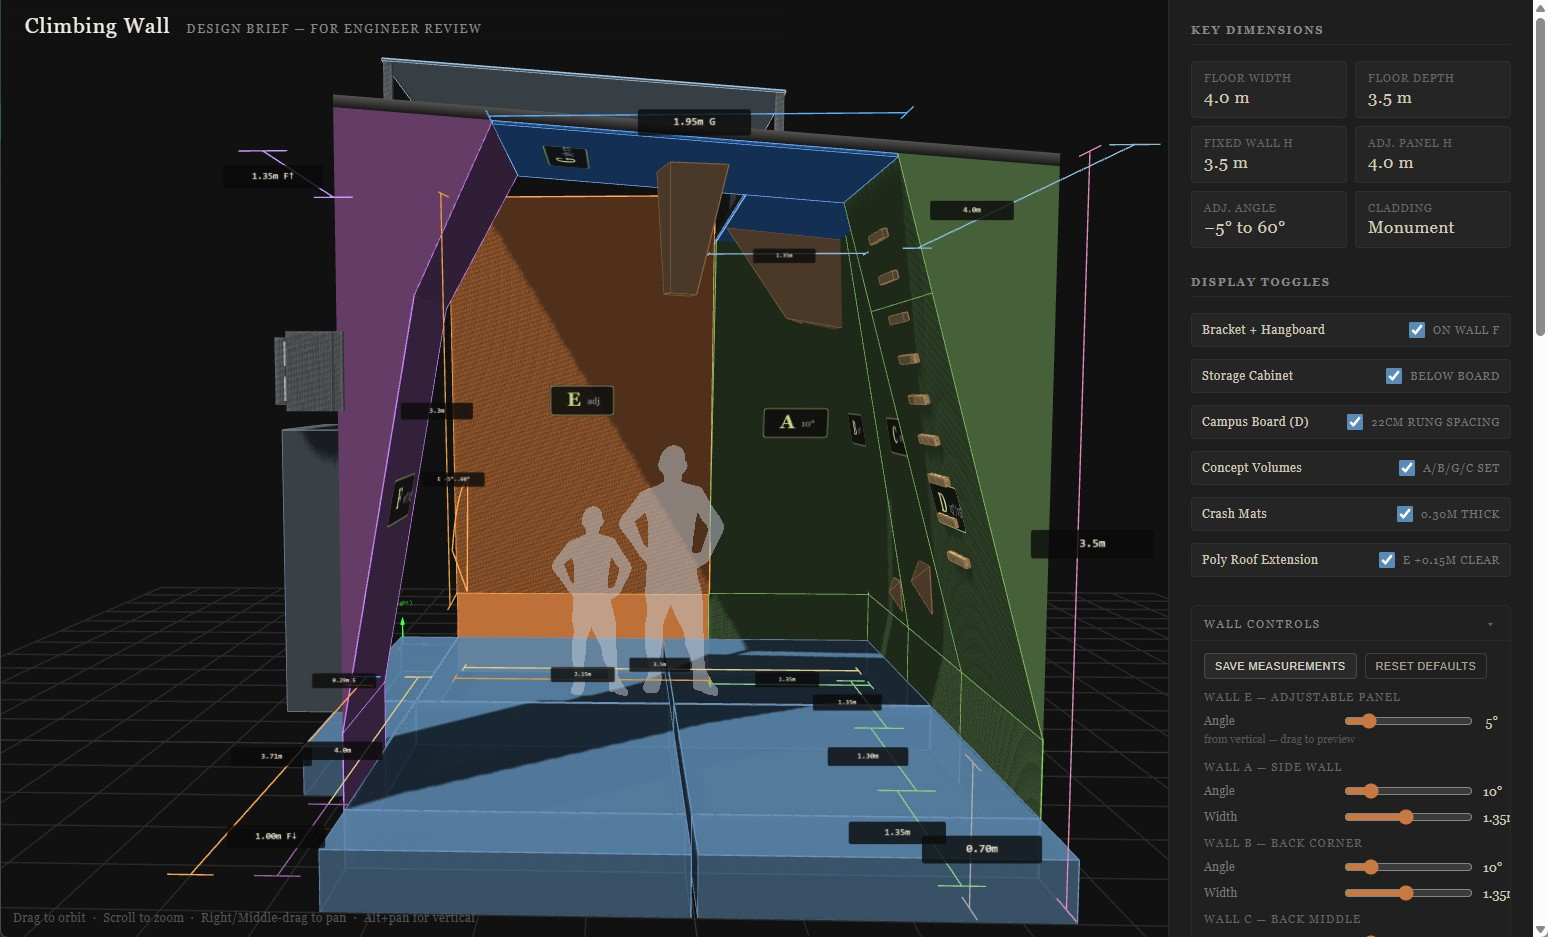
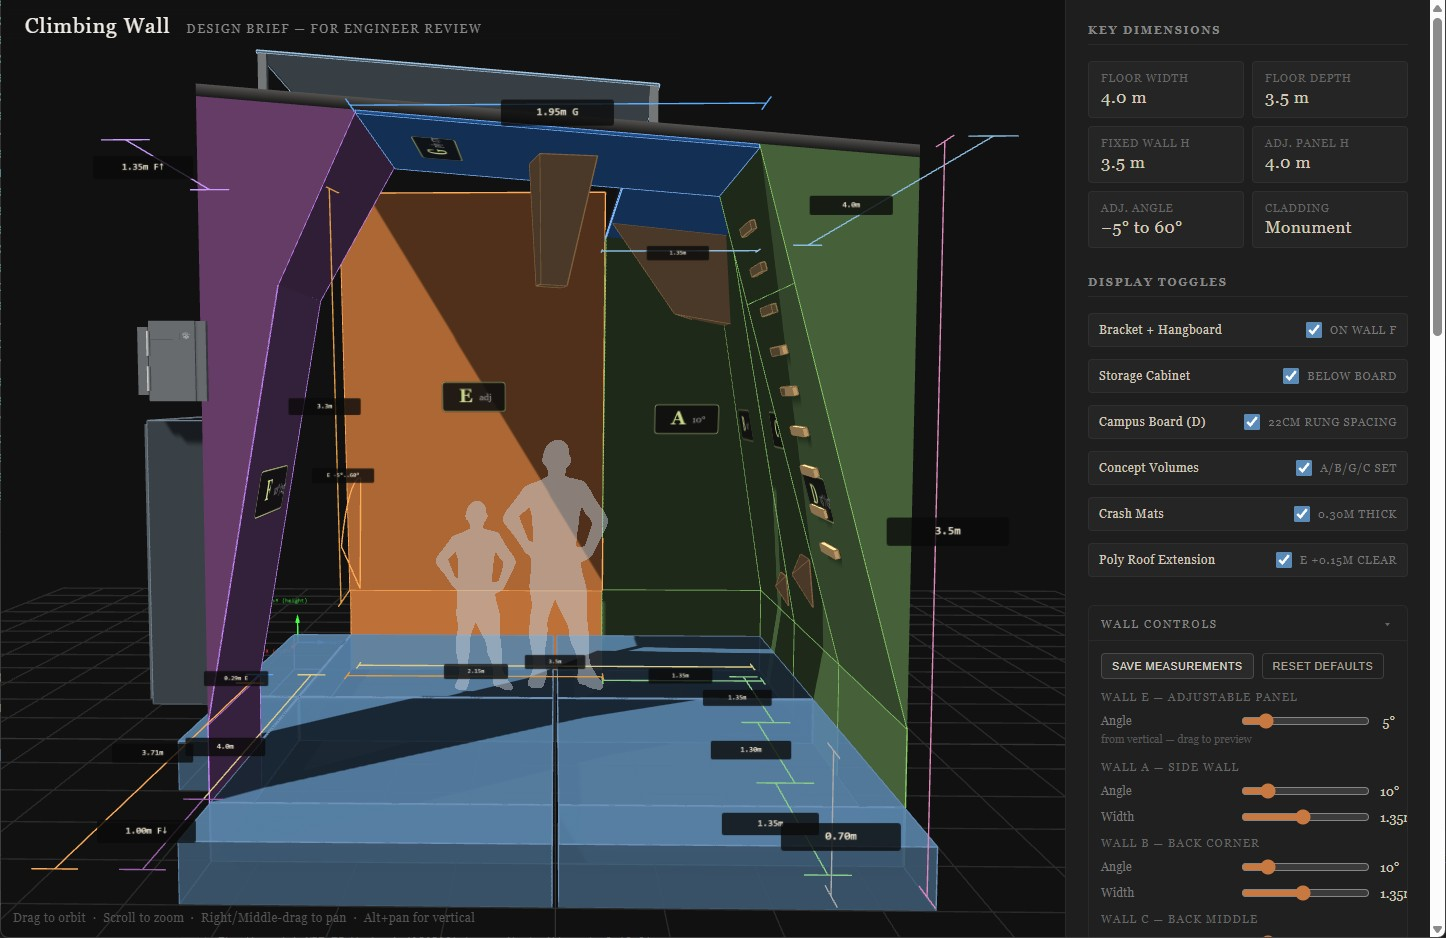
fix: refine seam visibility and reduce rendering artifacts

diff --git a/src/walls.js b/src/walls.js
@@ -954,11 +954,13 @@ function buildTrainingRig(group, s) {
     cabinet.add(new THREE.LineSegments(new THREE.EdgesGeometry(cabinet.geometry), new THREE.LineBasicMaterial({color:0x738392})));
     group.add(cabinet);
 
+    const cabDoorDepth = 0.02;
+    const cabDoorGap = 0.002;
     const cabDoor = box(
-      cabW - 0.04, cabH - 0.04, 0.02,
+      cabW - 0.04, cabH - 0.04, cabDoorDepth,
       new THREE.MeshLambertMaterial({color:0x5a6570}),
       0, 0, 0,
-      xCenter, cabBottom + cabH * 0.5, D + cabDepth + 0.01
+      xCenter, cabBottom + cabH * 0.5, D + cabDepth + 0.01 + (cabDoorDepth * 0.5) + cabDoorGap
     );
     cabDoor.castShadow = true;
     cabDoor.receiveShadow = true;
@@ -1045,7 +1047,8 @@ function buildTrainingRig(group, s) {
   for (let i = 0; i < slotCount; i++) {
     const t = slotCount === 1 ? 0 : (i / (slotCount - 1) - 0.5);
     const x = midXLocal + t * slotSpan;
-    const slotZ = boardZLocal + hangSide * (boardT * 0.5 + 0.006);
+    // Keep slot geometry slightly embedded into the board to avoid coplanar shimmer.
+    const slotZ = boardZLocal + hangSide * (boardT * 0.5 + 0.004);
     const slot = box(slotW, 0.03, 0.012, hangboardSlotMat, 0, 0, 0, x, boardY - 0.03, slotZ);
     slot.castShadow = true;
     slot.receiveShadow = true;
@@ -1349,4 +1352,104 @@ function buildAdjPanel(group, adjLen, fixedSideLen) {
 
 function setAdjAngle(deg) {
   if (adjPivot) adjPivot.rotation.z = -deg * Math.PI / 180;
+}
+
+// Visual guide: seam where A and B meet.
+// Draws from floor corner through kick and up the A/B intersection profile.
+function buildABCornerGuide(group, s, fixedSideLen) {
+  if (!group || !s) return;
+
+  const roofBackY = roofUnderY(0);
+  const roofEdgeY = roofUnderY(fixedSideLen);
+  const hBase = Math.max(0, roofBackY - KICK);
+  const hEdge = Math.max(0, roofEdgeY - KICK);
+
+  const aRad = THREE.MathUtils.degToRad(Number(s.aAngle) || 0);
+  const bRad = THREE.MathUtils.degToRad(Number(s.bAngle) || 0);
+  const tanA = Math.tan(aRad);
+  const tanB = Math.tan(bRad);
+
+  const xProfile = (() => {
+    if (Math.abs(tanA) < 1e-8) {
+      return { hTop: hEdge, hSplit: null, at: () => 0 };
+    }
+    const singleTopX = hEdge * tanA;
+    if (singleTopX <= fixedSideLen + 0.005) {
+      return { hTop: hEdge, hSplit: null, at: h => Math.max(0, h) * tanA };
+    }
+    const tanA2 = Math.tan(aRad * 0.5);
+    const denom = tanA - tanA2;
+    if (Math.abs(denom) < 1e-8) {
+      return { hTop: hEdge, hSplit: null, at: h => Math.max(0, h) * tanA };
+    }
+    let h1 = (fixedSideLen - hEdge * tanA2) / denom;
+    h1 = Math.max(0.1, Math.min(hEdge * 0.9, h1));
+    const splitX = h1 * tanA;
+    return {
+      hTop: hEdge,
+      hSplit: h1,
+      at: h => {
+        const hh = Math.max(0, h);
+        if (hh <= h1) return hh * tanA;
+        return splitX + (hh - h1) * tanA2;
+      },
+    };
+  })();
+
+  const zProfile = (() => {
+    if (Math.abs(tanB) < 1e-8) {
+      return { hTop: hBase, hSplit: null, at: () => 0 };
+    }
+    const singleDen = Math.max(0.05, 1 - ROOF_PITCH_TAN * tanB);
+    const singleH = hBase / singleDen;
+    const singleTopZ = singleH * tanB;
+    if (singleTopZ <= fixedSideLen + 0.005) {
+      return { hTop: singleH, hSplit: null, at: h => Math.max(0, h) * tanB };
+    }
+    const tanB2 = Math.tan(bRad * 0.5);
+    const denom = tanB - tanB2;
+    if (Math.abs(denom) < 1e-8) {
+      return { hTop: hEdge, hSplit: null, at: h => Math.max(0, h) * tanB };
+    }
+    let h1 = (fixedSideLen - hEdge * tanB2) / denom;
+    h1 = Math.max(0.1, Math.min(hEdge * 0.9, h1));
+    const splitZ = h1 * tanB;
+    return {
+      hTop: hEdge,
+      hSplit: h1,
+      at: h => {
+        const hh = Math.max(0, h);
+        if (hh <= h1) return hh * tanB;
+        return splitZ + (hh - h1) * tanB2;
+      },
+    };
+  })();
+
+  const hTop = Math.max(0, Math.min(xProfile.hTop, zProfile.hTop));
+  const pts = [
+    new THREE.Vector3(0, 0, 0),
+    new THREE.Vector3(0, KICK, 0),
+  ];
+
+  const knotSet = new Set([0, hTop]);
+  if (Number.isFinite(xProfile.hSplit)) knotSet.add(xProfile.hSplit.toFixed(6));
+  if (Number.isFinite(zProfile.hSplit)) knotSet.add(zProfile.hSplit.toFixed(6));
+  const knots = Array.from(knotSet)
+    .map(v => Number(v))
+    .filter(v => Number.isFinite(v) && v >= 0 && v <= hTop)
+    .sort((a, b) => a - b);
+
+  knots.forEach(h => {
+    pts.push(new THREE.Vector3(
+      xProfile.at(h),
+      KICK + h,
+      zProfile.at(h)
+    ));
+  });
+
+  const seamGeo = new THREE.BufferGeometry().setFromPoints(pts);
+  const seamMat = new THREE.LineBasicMaterial({ color: 0x88cc66 });
+  const seam = new THREE.Line(seamGeo, seamMat);
+  seam.userData.isABCornerGuide = true;
+  group.add(seam);
 }

diff --git a/src/core.js b/src/core.js
@@ -4,6 +4,7 @@ const wrap = document.getElementById('canvas-wrap');
 const renderer = new THREE.WebGLRenderer({ canvas, antialias: true, alpha: false });
 renderer.setPixelRatio(window.devicePixelRatio);
 renderer.shadowMap.enabled = true;
+renderer.shadowMap.type = THREE.PCFSoftShadowMap;
 renderer.localClippingEnabled = true;
 renderer.setClearColor(0x111111);
 
@@ -19,6 +20,15 @@ scene.add(new THREE.AmbientLight(0xffffff, 0.4));
 const sun = new THREE.DirectionalLight(0xfff5e0, 1.2);
 sun.position.set(6, 10, 6);
 sun.castShadow = true;
+sun.shadow.mapSize.set(2048, 2048);
+sun.shadow.bias = -0.00008;
+sun.shadow.normalBias = 0.02;
+sun.shadow.camera.near = 0.5;
+sun.shadow.camera.far = 40;
+sun.shadow.camera.left = -8;
+sun.shadow.camera.right = 8;
+sun.shadow.camera.top = 8;
+sun.shadow.camera.bottom = -4;
 scene.add(sun);
 const fill = new THREE.DirectionalLight(0xc0d0ff, 0.3);
 fill.position.set(-5, 3, -3);

diff --git a/src/rebuild.js b/src/rebuild.js
@@ -57,6 +57,7 @@ function rebuild() {
 
   // ── Adjustable panel ──
   buildAdjPanel(wallGroup, adjLen, fixedSideLen);
+  buildABCornerGuide(wallGroup, s, fixedSideLen);
 
   // ── Labels ──
   function findWallLabelMesh(wallId) {
